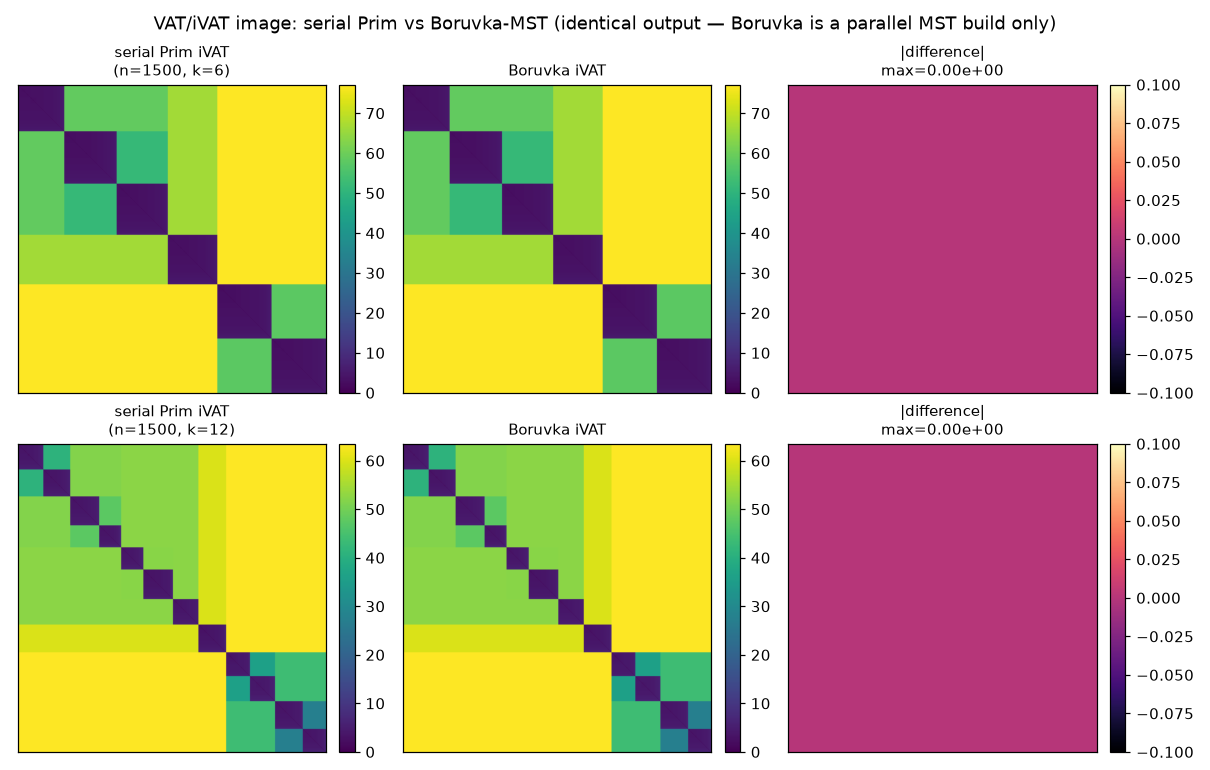
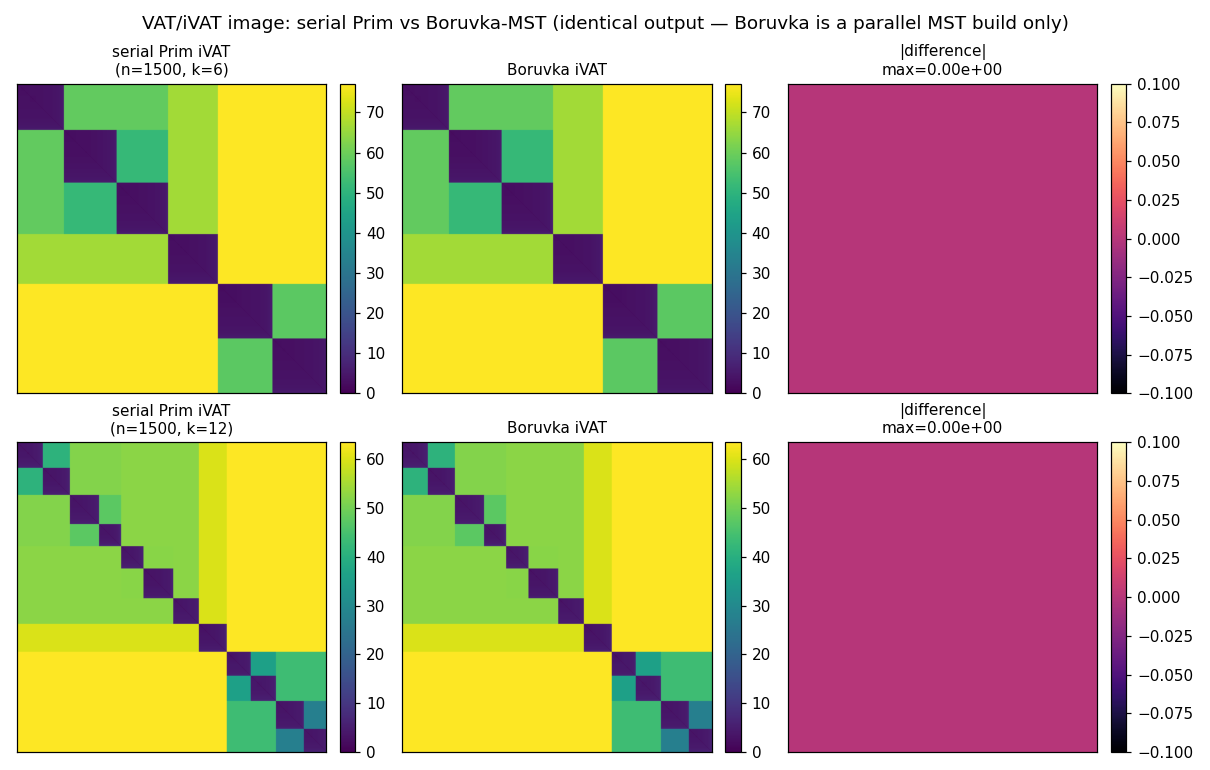
Add `vat_reconstruct.py` for VAT-based dissimilarity reconstruction and adjust `boruvka_vat.py` to dynamically detect CPU cores in scaling tests.

diff --git a/experiments/vat_reconstruct.py b/experiments/vat_reconstruct.py
@@ -1,0 +1,143 @@
+import itertools
+from typing import Any
+
+import numpy as np
+import matplotlib.pyplot as plt
+from numpy import dtype, ndarray
+
+from tribbleclustering.util import circle_random_clusters
+from tribbleclustering.pvat import compute_vat
+
+
+def confine_orientation(cities: ndarray) -> ndarray:
+    # Find the longest distance between two cities
+    distances = np.linalg.norm(cities[:, None, :] - cities[None, :, :], axis=-1)
+    i, j = np.unravel_index(np.argmax(distances), distances.shape)
+
+    # That's the principal axis, rotate to align with x-axis
+    axis_vector = cities[j] - cities[i]
+    angle = np.arctan2(axis_vector[1], axis_vector[0])
+    rotation_matrix = np.array([[np.cos(-angle), -np.sin(-angle)],
+                                [np.sin(-angle), np.cos(-angle)]])
+    cities = cities @ rotation_matrix.T
+
+    # Then translate to put the lower-left corner of the bounding box at the origin.
+    cities -= cities.min(axis=0)
+    return cities
+
+
+def main():
+    # Get 10 random city locations.
+    N = 50
+    p = 7
+    N = (N // p) * p
+    cities = circle_random_clusters(N // p, p)
+    cities = cities[np.random.permutation(len(cities))]
+    cities = confine_orientation(cities)
+    # cities = np.hstack((cities, np.random.rand(len(cities), 1)))
+
+    d = np.zeros((len(cities), len(cities)))
+    for ij in itertools.combinations(range(len(cities)), 2):
+        i, j = ij
+        d[i, j] = np.linalg.norm(cities[i] - cities[j])
+        d[j, i] = d[i, j]
+
+    # Apply VAT reordering to the distance matrix
+    d_vat, order = compute_vat(d)
+    new_cities = trilinear_cities(N, d_vat)
+    new_cities = confine_orientation(new_cities)
+
+    # Compute dissimilarity matrix of new cities
+    d_new = np.linalg.norm(new_cities[:, None, :] - new_cities[None, :, :], axis=-1)
+
+    # Plot the dissimilarity matrix
+    fig, ax = plt.subplots(2, 2, figsize=(12, 10))
+    im = ax[0, 0].imshow(d, cmap='viridis', aspect='auto')
+    plt.colorbar(im, ax=ax[0, 0], label='Dissimilarity')
+    ax[0, 0].set_title('Original Dissimilarity Matrix')
+    ax[0, 0].set_xlabel('Index')
+    ax[0, 0].set_ylabel('Index')
+
+    im2 = ax[0, 1].imshow(d_new, cmap='viridis', aspect='auto')
+    plt.colorbar(im2, ax=ax[0, 1], label='Dissimilarity')
+    ax[0, 1].set_title('Reconstructed Dissimilarity Matrix')
+    ax[0, 1].set_xlabel('Index')
+    ax[0, 1].set_ylabel('Index')
+
+    # Plot the cities
+    ax[1, 0].scatter(cities[:, 0], cities[:, 1], marker='+', s=100, c='blue', label='Actual cities')
+    ax[1, 0].scatter(new_cities[:, 0], new_cities[:, 1], marker='o', s=50, c='red', label='Reconstructed cities')
+    ax[1, 0].set_title('City Locations')
+    ax[1, 0].set_xlabel('X coordinate')
+    ax[1, 0].set_ylabel('Y coordinate')
+    ax[1, 0].legend()
+
+    # Plot the difference between dissimilarity matrices
+    diff = np.abs(d - d_new)
+    im3 = ax[1, 1].imshow(diff, cmap='hot', aspect='auto')
+    plt.colorbar(im3, ax=ax[1, 1], label='Absolute Difference')
+    ax[1, 1].set_title('Dissimilarity Matrix Difference')
+    ax[1, 1].set_xlabel('Index')
+    ax[1, 1].set_ylabel('Index')
+    plt.show()
+
+
+def trilinear_cities(N: int, d) -> ndarray[tuple[Any, ...], dtype[Any]]:
+    # ASSUME the first city is at the origin, next one at (d10, 0)
+    new_cities = [np.zeros(2), (d[0, 1], 0)]
+
+    # Handle the 3rd city (index 2) - place it in the positive half-plane
+    d1 = d[0, 2]
+    d2 = d[1, 2]
+    d12 = d[0, 1]
+    x1, y1 = new_cities[0]
+    x2, y2 = new_cities[1]
+    # Calculate x-coordinate using the law of cosines
+    x = x1 + (d1 ** 2 - d2 ** 2 + d12 ** 2) / (2 * d12) * (x2 - x1) / d12
+    # Calculate y-coordinate (positive half-plane)
+    disc = d1 ** 2 - ((x - x1) ** 2 + (y1) ** 2)
+    y_offset = np.sqrt(np.abs(disc))
+    y = y1 + y_offset  # Always choose positive half-plane for 3rd city
+    new_cities.append((x, y))
+
+    # Now, look at the dissimilarity matrix and calculate the locations of the other cities.
+    for ij in range(3, N):
+        d1 = d[ij - 3, ij]
+        d2 = d[ij - 2, ij]
+        d3 = d[ij - 1, ij]
+
+        x1, y1 = new_cities[ij - 3]
+        x2, y2 = new_cities[ij - 2]
+        x3, y3 = new_cities[ij - 1]
+
+        # Use trilateration with the three reference cities
+        # Solve: (x - x1)^2 + (y - y1)^2 = d1^2
+        #        (x - x2)^2 + (y - y2)^2 = d2^2
+        #        (x - x3)^2 + (y - y3)^2 = d3^2
+
+        # Build the system matrix
+        A = np.array([
+            [2 * (x2 - x1), 2 * (y2 - y1)],
+            [2 * (x3 - x1), 2 * (y3 - y1)]
+        ])
+
+        b = np.array([
+            d1 ** 2 - d2 ** 2 + x2 ** 2 - x1 ** 2 + y2 ** 2 - y1 ** 2,
+            d1 ** 2 - d3 ** 2 + x3 ** 2 - x1 ** 2 + y3 ** 2 - y1 ** 2
+        ])
+
+        try:
+            coords = np.linalg.solve(A, b)
+            x, y = coords[0], coords[1]
+        except np.linalg.LinAlgError:
+            # Degenerate case: use mean of reference cities
+            x, y = (x1 + x2 + x3) / 3, (y1 + y2 + y3) / 3
+
+        new_cities.append((x, y))
+
+    new_cities = np.array(new_cities)
+    return new_cities
+
+
+if __name__ == "__main__":
+    main()

diff --git a/experiments/boruvka_vat.py b/experiments/boruvka_vat.py
@@ -28,6 +28,7 @@ Run:  python -m experiments.boruvka_vat
 from __future__ import annotations
 
 import heapq
+import os
 import time
 from pathlib import Path
 
@@ -325,7 +326,7 @@ def _time_gpu(fn, arg):
 def scaling_figure():
     from experiments.boruvka_gpu import boruvka_mst_gpu
 
-    sizes = [1000, 2000, 4000, 8000, 16000, 32000]
+    sizes = [1000, 2000, 4000, 8000]
     t_prim, t_bnumba, t_gpu_dev, t_gpu_xfer, order_match = [], [], [], [], []
     for n in sizes:
         X = make_blobs(n, 10, 25, seed=7)
@@ -357,7 +358,7 @@ def scaling_figure():
 
     fig, ax = plt.subplots(figsize=(8.5, 5.8))
     ax.plot(sizes, t_prim, "o-", label="serial Prim (C/OpenMP, O(n^2))")
-    ax.plot(sizes, t_bnumba, "s-", label="Boruvka (Numba, 32 cores)")
+    ax.plot(sizes, t_bnumba, "s-", label=f"Boruvka (Numba, {os.cpu_count()} cores)")
     if _HAS_CUPY:
         ax.plot(
             sizes,
